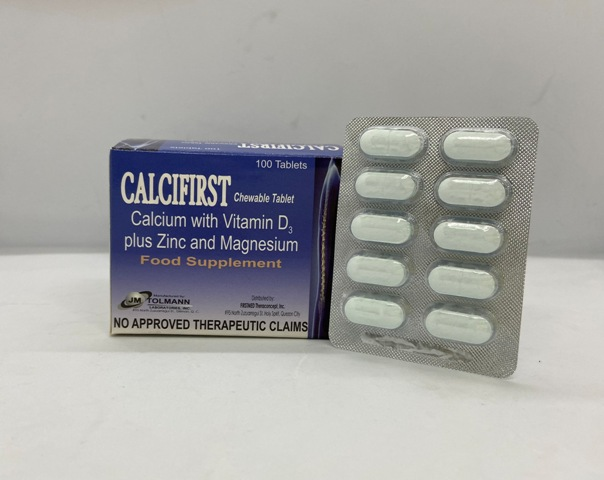
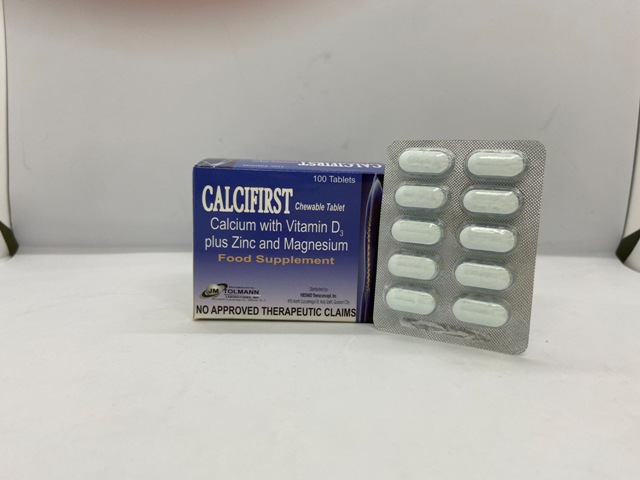
image compression
compressed image for faster web page load added product image

diff --git a/index.html b/index.html
@@ -130,28 +130,28 @@
 
             <div class="box">
                 <div class="imgBx">
-                    <img src="image/doh2003.jpg">
+                    <img src="productimage/food/calciumate.jpg">
                 </div>
                 <div class="text">
-                    <h3>PCPI</h3>
+                    <h3>Calciumate</h3>
                 </div>
             </div>
 
             <div class="box">
                 <div class="imgBx">
-                    <img src="image/doh2003.jpg">
+                    <img src="productimage/food/ezgrow.JPG">
                 </div>
                 <div class="text">
-                    <h3>PCPI</h3>
+                    <h3>EZ Grow</h3>
                 </div>
             </div>
 
             <div class="box">
                 <div class="imgBx">
-                    <img src="image/doh2003.jpg">
+                    <img src="productimage/drug/betahistine.jpg">
                 </div>
                 <div class="text">
-                    <h3>PCPI</h3>
+                    <h3>Betahistine</h3>
                 </div>
             </div>
             
